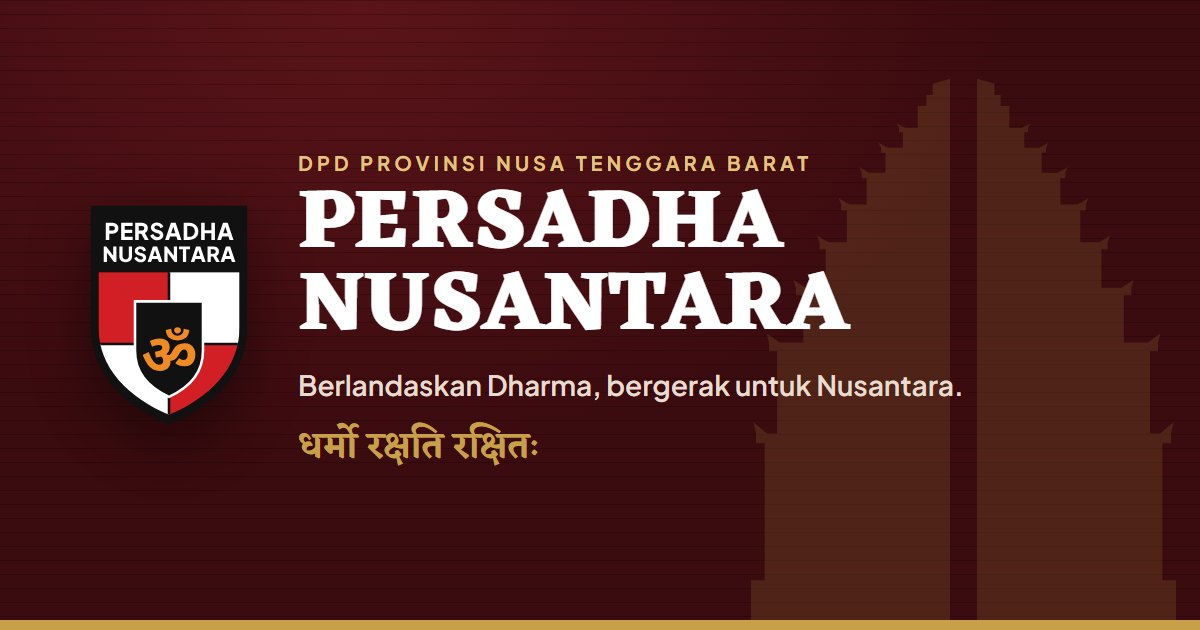
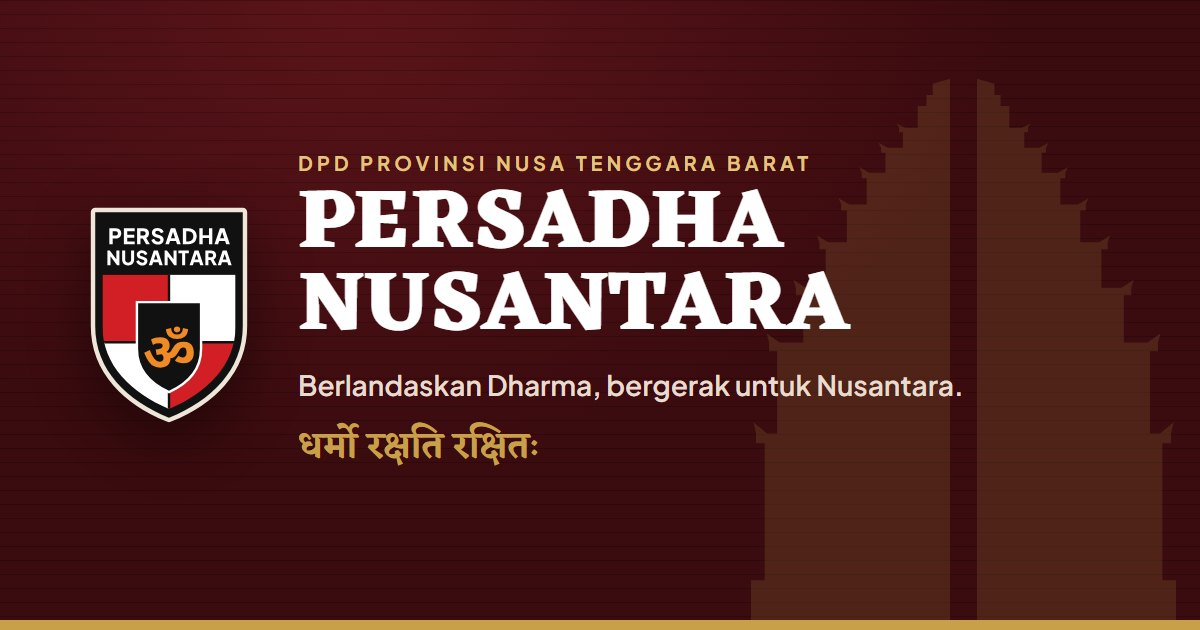
Lambang berbingkai untuk latar gelap dan Instagram @persadhantb
- Tepi hitam perisai menyatu dengan latar gelap (kaki halaman, panel
  pengurus, kartu anggota, gambar pratinjau). Varian lambang-gelap.svg
  menambah bingkai krem di luar perisai; latar terang tetap lambang asli.
- Tautan Instagram DPD NTB: https://www.instagram.com/persadhantb/

Changed region(s): [[0.0617, 0.3016, 0.2158, 0.6635]]

diff --git a/src/templat/kaki.html b/src/templat/kaki.html
@@ -1,7 +1,7 @@
 <footer class="kaki">
   <div class="wadah kaki-atas">
     <div class="kaki-merek">
-      <img src="{{BASE}}aset/img/lambang.svg" alt="Lambang Persadha Nusantara" width="58" height="79" loading="lazy">
+      <img src="{{BASE}}aset/img/lambang-gelap.svg" alt="Lambang Persadha Nusantara" width="60" height="80" loading="lazy">
       <p class="kaki-nama">Persadha Nusantara</p>
       <p class="kaki-wilayah">Dewan Pimpinan Daerah Provinsi Nusa Tenggara Barat</p>
       <p class="kaki-motto">Berlandaskan Dharma, bergerak untuk Nusantara.</p>

diff --git a/src/halaman/admin.html b/src/halaman/admin.html
@@ -9,7 +9,7 @@
 <div class="adm" data-adm hidden>
   <aside class="adm-sisi" data-adm-sisi>
     <a class="adm-merek" href="{{BASE}}">
-      <img src="{{BASE}}aset/img/lambang.svg" alt="" width="34" height="46">
+      <img src="{{BASE}}aset/img/lambang-gelap.svg" alt="" width="35" height="47">
       <span><b>Persadha Nusantara</b><small>Panel pengurus</small></span>
     </a>
     <nav class="adm-nav" aria-label="Menu panel">

diff --git a/aset/js/kartu-anggota.js b/aset/js/kartu-anggota.js
@@ -3,7 +3,7 @@ import { BASE, esc, tanggal } from './inti.js';
 export const kartuAnggota = (a) => `
 <div class="kartu-anggota" role="img" aria-label="Kartu anggota ${esc(a.nama)}, nomor ${esc(a.nomorAnggota)}">
   <div class="atas">
-    <img src="${BASE}aset/img/lambang.svg" alt="">
+    <img src="${BASE}aset/img/lambang-gelap.svg" alt="">
     <p>Kartu anggota<br>Persadha Nusantara NTB</p>
   </div>
   <div>
